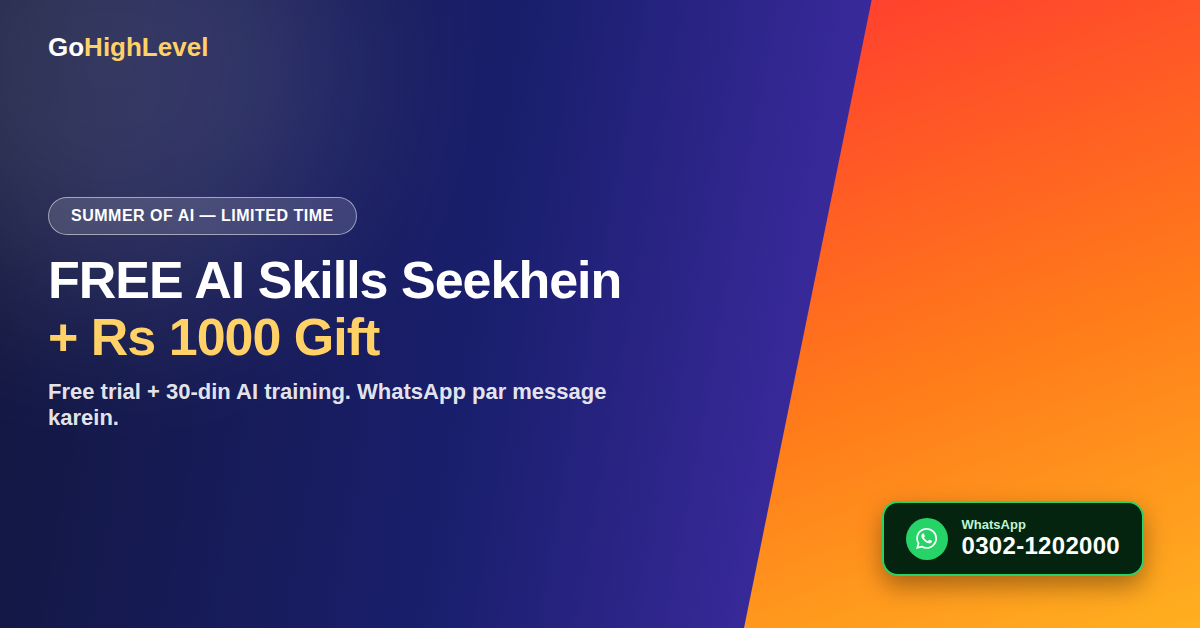
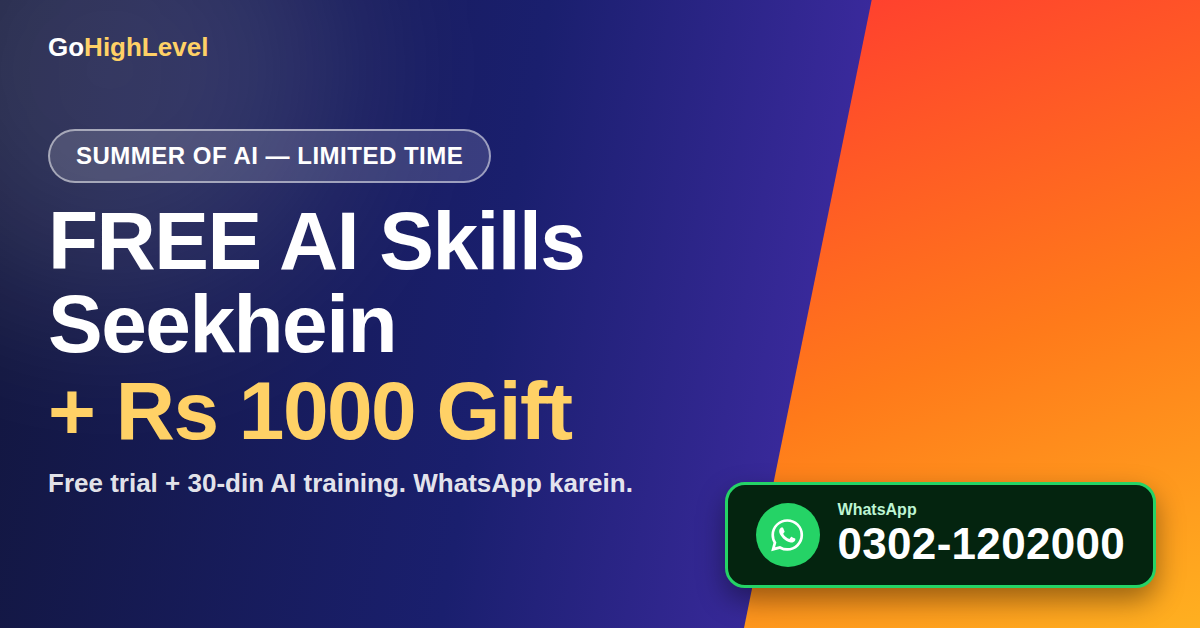
Enlarge text and WhatsApp number on the Google Ads horizontal image
Roughly doubled the kicker, headline, and sub-line sizes, and enlarged
the WhatsApp CTA (number, label, icon, padding) so it reads clearly at
a glance in the 1200x628 format.

diff --git a/ads-source/gohighlevel-summer-of-ai-bold-pk/horizontal.html b/ads-source/gohighlevel-summer-of-ai-bold-pk/horizontal.html
@@ -22,33 +22,33 @@
   .brand { position:absolute; top:32px; left:48px; font-size:26px; font-weight:800; z-index:3; }
   .brand .go{ color:#fff; } .brand .hl{ color:#ffd166; }
 
-  .content { position:relative; z-index:2; height:100%; display:flex; flex-direction:column; justify-content:center; padding:0 48px; max-width:700px; }
+  .content { position:relative; z-index:2; height:100%; display:flex; flex-direction:column; justify-content:center; padding:0 48px; max-width:760px; }
 
   .kicker {
-    display:inline-flex; align-self:flex-start; padding:9px 22px; border-radius:999px;
-    background:rgba(255,255,255,0.14); border:1.5px solid rgba(255,255,255,0.5);
-    color:#fff; font-size:16px; font-weight:800; letter-spacing:0.5px; margin-bottom:18px;
+    display:inline-flex; align-self:flex-start; padding:11px 26px; border-radius:999px;
+    background:rgba(255,255,255,0.14); border:2px solid rgba(255,255,255,0.5);
+    color:#fff; font-size:24px; font-weight:800; letter-spacing:0.5px; margin-bottom:16px;
   }
 
   .headline { text-align:left; }
-  .headline .l1 { font-size:52px; font-weight:900; line-height:1.05; letter-spacing:-1px; color:#fff; }
-  .headline .l2 { font-size:52px; font-weight:900; line-height:1.08; letter-spacing:-1px; color:#ffd166; margin-top:2px; }
+  .headline .l1 { font-size:82px; font-weight:900; line-height:1.02; letter-spacing:-1.5px; color:#fff; }
+  .headline .l2 { font-size:82px; font-weight:900; line-height:1.05; letter-spacing:-1.5px; color:#ffd166; margin-top:2px; }
 
-  .sub { text-align:left; font-size:22px; font-weight:600; color:rgba(255,255,255,0.9); margin-top:14px; max-width:560px; }
+  .sub { text-align:left; font-size:26px; font-weight:600; color:rgba(255,255,255,0.9); margin-top:14px; max-width:600px; }
 
   .waCta {
-    position:absolute; right:56px; bottom:52px; z-index:3;
-    display:flex; align-items:center; gap:14px; background:#04240f; color:#fff;
-    border-radius:16px; padding:14px 22px;
-    box-shadow:0 10px 24px rgba(0,0,0,0.35); border:2.5px solid #25D366;
+    position:absolute; right:44px; bottom:40px; z-index:3;
+    display:flex; align-items:center; gap:18px; background:#04240f; color:#fff;
+    border-radius:20px; padding:16px 28px;
+    box-shadow:0 12px 28px rgba(0,0,0,0.4); border:3px solid #25D366;
   }
   .waCta .icon {
-    width:42px; height:42px; border-radius:50%; background:#25D366; display:flex; align-items:center;
+    width:64px; height:64px; border-radius:50%; background:#25D366; display:flex; align-items:center;
     justify-content:center; flex:0 0 auto;
   }
   .waCta .txt { text-align:left; }
-  .waCta .txt .l1 { font-size:13px; font-weight:700; color:#bdf5d3; }
-  .waCta .txt .l2 { font-size:24px; font-weight:900; color:#fff; letter-spacing:0.3px; }
+  .waCta .txt .l1 { font-size:16px; font-weight:700; color:#bdf5d3; }
+  .waCta .txt .l2 { font-size:44px; font-weight:900; color:#fff; letter-spacing:0.3px; }
 </style>
 </head>
 <body>
@@ -62,7 +62,7 @@
         <div class="l1">FREE AI Skills Seekhein</div>
         <div class="l2">+ Rs 1000 Gift</div>
       </div>
-      <div class="sub">Free trial + 30-din AI training. WhatsApp par message karein.</div>
+      <div class="sub">Free trial + 30-din AI training. WhatsApp karein.</div>
     </div>
     <div class="waCta">
       <div class="icon"><svg viewBox="0 0 24 24" width="60%" height="60%" fill="#fff"><path d="M12.04 2C6.58 2 2.13 6.45 2.13 11.91c0 1.71.45 3.38 1.3 4.85L2 22l5.36-1.4a9.9 9.9 0 0 0 4.68 1.19h.01c5.46 0 9.91-4.45 9.91-9.91 0-2.65-1.03-5.14-2.9-7.01A9.82 9.82 0 0 0 12.04 2zm0 18.06h-.01a8.2 8.2 0 0 1-4.19-1.15l-.3-.18-3.12.82.83-3.04-.2-.31a8.18 8.18 0 0 1-1.26-4.38c0-4.54 3.7-8.24 8.25-8.24 2.2 0 4.27.86 5.83 2.42a8.18 8.18 0 0 1 2.41 5.83c0 4.54-3.7 8.23-8.24 8.23zm4.52-6.16c-.25-.12-1.47-.72-1.7-.81-.23-.08-.39-.12-.56.13-.17.25-.64.81-.78.97-.14.17-.29.19-.54.06-.25-.12-1.05-.39-1.99-1.23-.74-.66-1.24-1.47-1.38-1.72-.15-.25-.02-.38.11-.51.11-.11.25-.29.37-.43.12-.15.16-.25.25-.42.08-.17.04-.31-.02-.43-.06-.12-.56-1.35-.77-1.85-.2-.48-.41-.42-.56-.43-.14-.01-.31-.01-.48-.01-.17 0-.43.06-.66.31-.23.25-.87.85-.87 2.07 0 1.22.89 2.4 1.02 2.57.12.17 1.75 2.67 4.25 3.74.59.26 1.06.41 1.42.53.6.19 1.14.16 1.57.1.48-.07 1.47-.6 1.68-1.18.21-.58.21-1.08.15-1.18-.06-.1-.23-.16-.48-.28z"/></svg></div>
